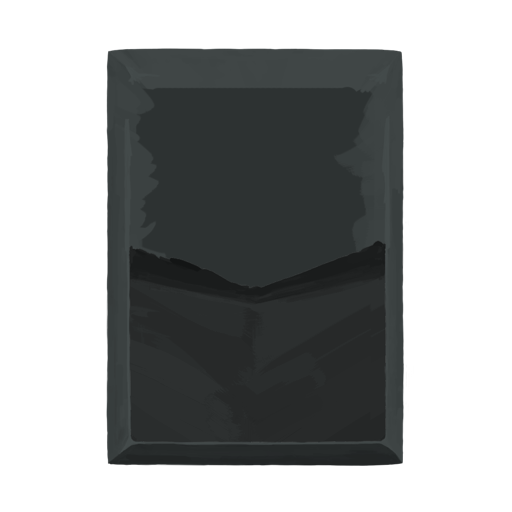
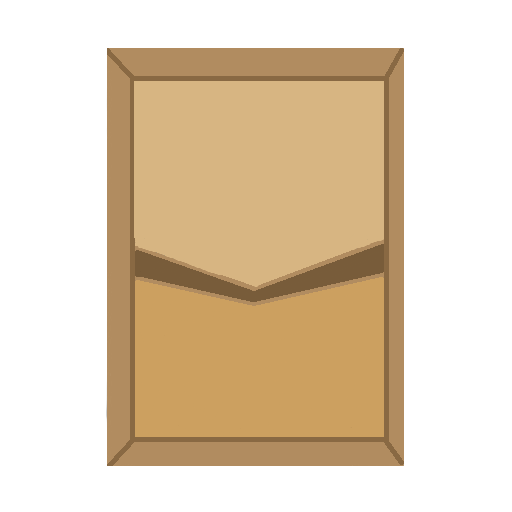
Added png fixed cards
Did a run through once I added card backgrounds, found some issues with how cards worked so fixed them. the png works well enough had to adjust one more time to get the p version which is just bigger.

diff --git a/RacoonSlinger/src/main/java/racoonslingermod/cards/QuickStrike.java b/RacoonSlinger/src/main/java/racoonslingermod/cards/QuickStrike.java
@@ -1,6 +1,7 @@
 package racoonslingermod.cards;
 
 import com.megacrit.cardcrawl.actions.AbstractGameAction;
+import com.megacrit.cardcrawl.actions.common.ApplyPowerAction;
 import com.megacrit.cardcrawl.actions.common.DamageAction;
 import com.megacrit.cardcrawl.actions.defect.ForTheEyesAction;
 import com.megacrit.cardcrawl.cards.AbstractCard;
@@ -8,6 +9,7 @@ import com.megacrit.cardcrawl.cards.DamageInfo;
 import com.megacrit.cardcrawl.characters.AbstractPlayer;
 import com.megacrit.cardcrawl.dungeons.AbstractDungeon;
 import com.megacrit.cardcrawl.monsters.AbstractMonster;
+import com.megacrit.cardcrawl.powers.FrailPower;
 import racoonslingermod.character.MyCharacter;
 import racoonslingermod.util.CardStats;
 
@@ -31,7 +33,7 @@ public class QuickStrike extends BaseCard {
 
     public void use(AbstractPlayer p, AbstractMonster m) {
         this.addToBot(new DamageAction(m, new DamageInfo(p, this.damage, this.damageTypeForTurn), AbstractGameAction.AttackEffect.SLASH_DIAGONAL));
-        this.addToBot(new ForTheEyesAction(this.magicNumber, m));
+        this.addToBot(new ApplyPowerAction(m, p, new FrailPower(m, this.magicNumber, false), this.magicNumber, true, AbstractGameAction.AttackEffect.NONE));
     }
 
     public void triggerOnGlowCheck() {

diff --git a/RacoonSlinger/src/main/java/racoonslingermod/cards/Disarm.java b/RacoonSlinger/src/main/java/racoonslingermod/cards/Disarm.java
@@ -3,6 +3,7 @@ package racoonslingermod.cards;
 import com.megacrit.cardcrawl.actions.AbstractGameAction;
 import com.megacrit.cardcrawl.actions.common.ApplyPowerAction;
 import com.megacrit.cardcrawl.actions.common.DamageAction;
+import com.megacrit.cardcrawl.actions.defect.ForTheEyesAction;
 import com.megacrit.cardcrawl.cards.AbstractCard;
 import com.megacrit.cardcrawl.cards.DamageInfo;
 import com.megacrit.cardcrawl.characters.AbstractPlayer;
@@ -30,7 +31,8 @@ public class Disarm extends BaseCard {
 
     public void use(AbstractPlayer p, AbstractMonster m) {
         this.addToBot(new DamageAction(m, new DamageInfo(p, this.damage, this.damageTypeForTurn), AbstractGameAction.AttackEffect.BLUNT_HEAVY));
-        this.addToBot(new ApplyPowerAction(m, p, new FrailPower(m, this.magicNumber, false), this.magicNumber, true, AbstractGameAction.AttackEffect.NONE));
+        this.addToBot(new ForTheEyesAction(this.magicNumber, m));
+
     }
 
 

diff --git a/RacoonSlinger/src/main/java/racoonslingermod/BasicMod.java b/RacoonSlinger/src/main/java/racoonslingermod/BasicMod.java
@@ -3,6 +3,7 @@ package racoonslingermod;
 import basemod.AutoAdd;
 import basemod.BaseMod;
 import basemod.interfaces.*;
+import com.badlogic.gdx.graphics.Color;
 import racoonslingermod.cards.BaseCard;
 import racoonslingermod.character.MyCharacter;
 import racoonslingermod.util.GeneralUtils;
@@ -25,6 +26,7 @@ import com.megacrit.cardcrawl.localization.*;
 import org.apache.logging.log4j.LogManager;
 import org.apache.logging.log4j.Logger;
 import org.scannotation.AnnotationDB;
+import racoonslingermod.character.MyCharacter;
 
 import java.lang.reflect.Field;
 import java.lang.reflect.Modifier;
@@ -166,6 +168,7 @@ public class BasicMod implements
     public void receiveEditCharacters() {
         MyCharacter.Meta.registerCharacter();
     }
+
 
     @Override
     public void receiveAddAudio() {

diff --git a/RacoonSlinger/src/main/java/racoonslingermod/character/MyCharacter.java b/RacoonSlinger/src/main/java/racoonslingermod/character/MyCharacter.java
@@ -67,7 +67,7 @@ public class MyCharacter extends CustomPlayer {
         private static final String SMALL_ORB = characterPath("cardback/small_orb.png");
 
         //This is used to color *some* images, but NOT the actual cards. For that, edit the images in the cardback folder!
-        private static final Color cardColor = new Color(128f/255f, 128f/255f, 128f/255f, 1f);
+        private static final Color cardColor = new Color(177f/255f, 140f/255f, 96f/255f, 1f);
 
         //Methods that will be used in the main mod file
         public static void registerColor() {

diff --git a/RacoonSlinger/src/main/java/racoonslingermod/cards/LetEmFly.java b/RacoonSlinger/src/main/java/racoonslingermod/cards/LetEmFly.java
@@ -18,12 +18,13 @@ public class LetEmFly extends BaseCard {
             MyCharacter.Meta.CARD_COLOR,
             CardType.SKILL,
             CardRarity.RARE,
-            CardTarget.ENEMY,
+            CardTarget.ALL_ENEMY,
             2
     );
 
     public LetEmFly() {
         super(ID, info);
+        this.exhaust = true;
     }
 
     //Need to make it so it evokes all then channels lightning, then evokes all and rechannels orbs
